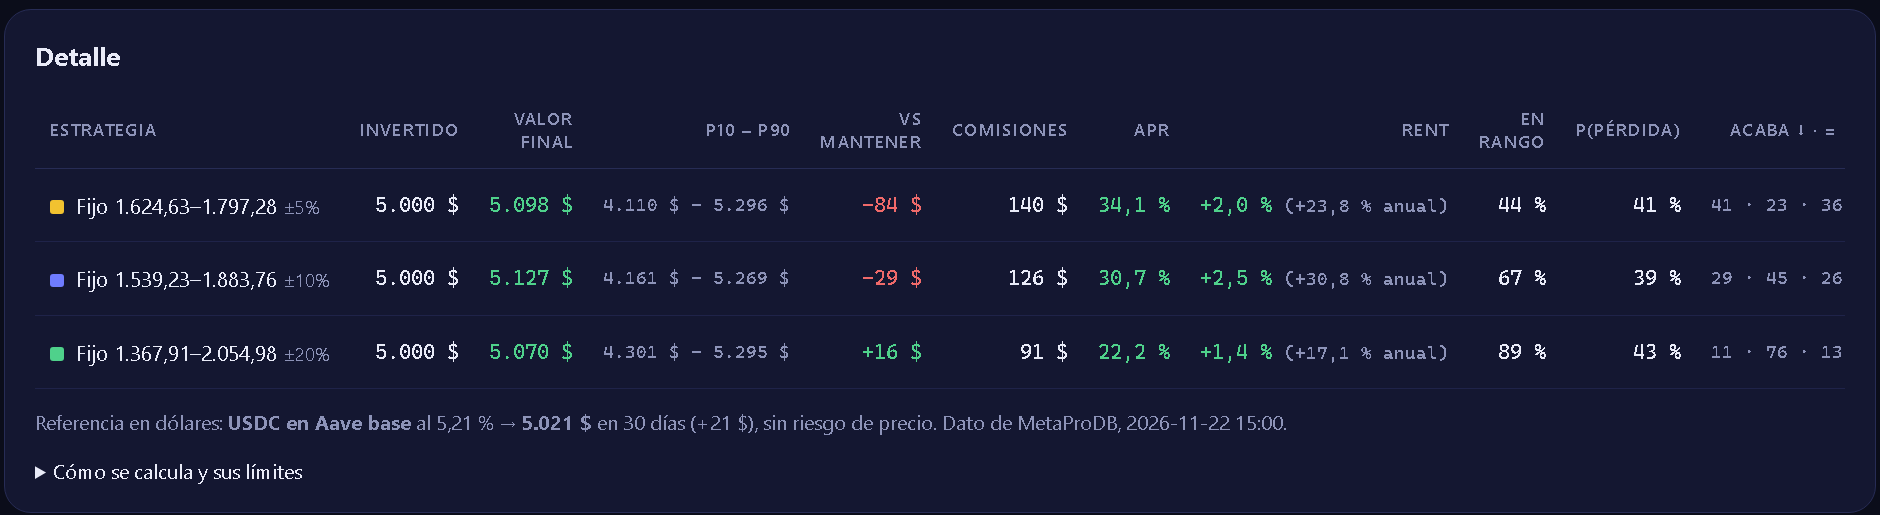
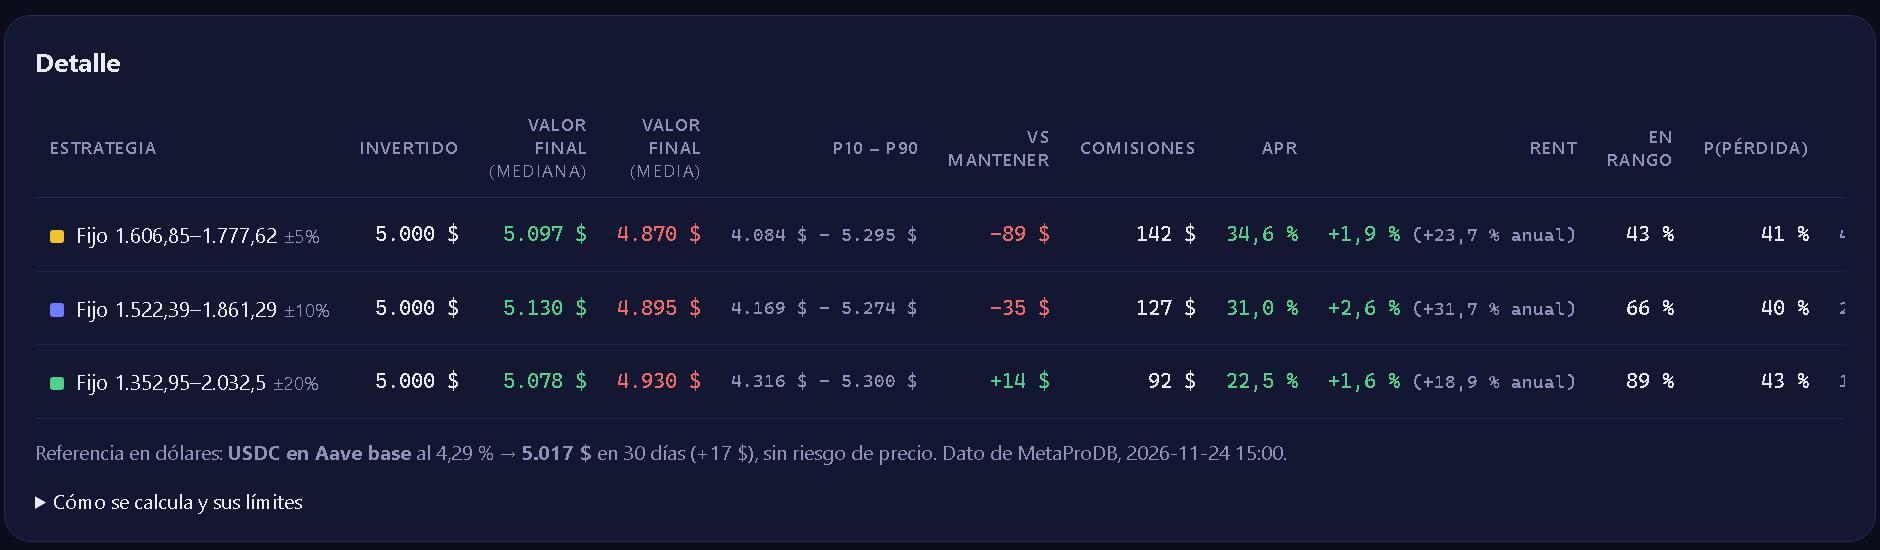
Simulador: valor final medio en la tabla y sección Recomendación en lenguaje llano
- Columna «Valor final (media)» junto a la mediana: la mediana puede salir en verde con la media en
  rojo (ganancias pequeñas y frecuentes, pérdidas grandes y raras).
- recomendacion: veredicto (compensa / no compensa) con la media frente a guardar los tokens y a la
  referencia sin riesgo; «qué haría», «qué no recomiendo» y «para intentar mejorarlo» (buscador de
  anchos, otros pools, nivel de comisiones, plazo, volatilidad reciente y semáforo).
- Guía con la sección 8 d y capturas; README al día.

diff --git a/etapas/simulador_web.html b/etapas/simulador_web.html
@@ -37,7 +37,7 @@ button.primary{background:var(--band);border-color:var(--band);color:#fff;font-w
 svg{display:block;width:100%;height:auto}
 .axis{fill:var(--muted);font:12px var(--mono)}
 .tw{overflow-x:auto}
-table{width:100%;border-collapse:collapse;font-family:var(--mono);font-size:14px;min-width:1050px}
+table{width:100%;border-collapse:collapse;font-family:var(--mono);font-size:14px;min-width:1150px}
 th{font:600 11px system-ui,sans-serif;letter-spacing:.08em;text-transform:uppercase;color:var(--muted);text-align:right;padding:10px 10px;border-bottom:1px solid var(--line)}
 th:first-child,td:first-child{text-align:left}
 td{text-align:right;padding:14px 10px;border-bottom:1px solid #1f2349;white-space:nowrap}
@@ -56,6 +56,13 @@ summary{cursor:pointer;color:var(--text)}
 .concl{margin:0;padding-left:20px;font-size:15px;line-height:1.55}.concl li{margin:4px 0}
 .sw{display:inline-block;width:10px;height:10px;border-radius:2px;margin:0 4px 0 10px;vertical-align:middle}
 .sw:first-child{margin-left:0}
+#opt:empty{display:none}
+.reco-txt{font-size:16px;line-height:1.55;margin:0 0 14px}
+.reco-grid{display:grid;grid-template-columns:repeat(auto-fit,minmax(300px,1fr));gap:16px}
+.reco-grid h3{font-size:14px;margin:0 0 6px}
+.reco-grid ul{margin:0;padding-left:18px;font-size:14px;line-height:1.5}.reco-grid li{margin:5px 0}
+.fiab.favorable{background:rgba(79,209,139,.15);color:var(--green)}
+.fiab.desfavorable{background:rgba(240,106,106,.15);color:var(--red)}
 </style>
 </head>
 <body>
@@ -132,7 +139,7 @@ summary{cursor:pointer;color:var(--text)}
   <section class="panel" id="outTable" hidden>
     <h2>Detalle</h2>
     <div class="tw"><table>
-      <thead><tr><th>Estrategia</th><th>Invertido</th><th>Valor final</th><th>P10 – P90</th><th>vs mantener</th><th>Comisiones</th><th>APR</th><th>Rent</th><th>En rango</th><th>P(pérdida)</th><th>Acaba ↓ · = · ↑</th></tr></thead>
+      <thead><tr><th>Estrategia</th><th>Invertido</th><th>Valor final<br><span style="font-weight:400">(mediana)</span></th><th>Valor final<br><span style="font-weight:400">(media)</span></th><th>P10 – P90</th><th>vs mantener</th><th>Comisiones</th><th>APR</th><th>Rent</th><th>En rango</th><th>P(pérdida)</th><th>Acaba ↓ · = · ↑</th></tr></thead>
       <tbody id="tbody"></tbody>
     </table></div>
     <div class="hint" id="ref" style="font-size:13px;margin-top:12px"></div>
@@ -163,6 +170,17 @@ summary{cursor:pointer;color:var(--text)}
     </div>
     <div class="hint">El mismo rango y plazo en todos los pools del par con TVL ≥ 0,1 M$ (ETH = WETH, BTC = WBTC = cbBTC, cualquier estable = USD), ordenados por lo que ganan frente a mantener en la media. Haz clic en una fila para abrir ese pool. Tarda unos segundos por pool.</div>
     <div class="tw" style="margin-top:8px"><table id="cmpTab" style="min-width:980px"></table></div>
+  </section>
+
+  <section class="panel reco" id="outReco" hidden>
+    <h2>Recomendación <span id="recoTag" class="fiab"></span></h2>
+    <p id="recoTxt" class="reco-txt"></p>
+    <div class="reco-grid">
+      <div><h3>✅ Qué haría</h3><ul id="recoHacer"></ul></div>
+      <div><h3>⛔ Qué no recomiendo</h3><ul id="recoNo"></ul></div>
+      <div><h3>🔧 Para intentar mejorarlo</h3><ul id="recoMejorar"></ul></div>
+    </div>
+    <div class="hint" id="recoNota"></div>
   </section>
 </main>
 <script>
@@ -233,8 +251,8 @@ function render(d){
     `volatilidad ×<b>${d.escala_vol.toLocaleString("es-ES",{maximumFractionDigits:2})}</b> (últimos 90 d ×${d.vol_reciente.toLocaleString("es-ES",{maximumFractionDigits:2})}, plazo ×${(d.escala_vol/Math.min(2,Math.max(0.5,d.vol_reciente))).toLocaleString("es-ES",{maximumFractionDigits:2})})`,
     `gas <b>${d.gas} $</b>`, `cambio inicial <b>${pct(d.comision_cambio,2,false)}</b>`,
     d.aviso?`<span class="neg">${d.aviso}</span>`:""].filter(Boolean).map(t=>`<span>${t}</span>`).join("");
-  ["outSum","outFan","outBars","outDes","outTable","outOpt","outCmp"].forEach(id=>$(id).hidden=false);
-  summary(d); fan(d); bars(d); desglose(d); table(d);
+  ["outSum","outFan","outBars","outDes","outTable","outOpt","outCmp","outReco"].forEach(id=>$(id).hidden=false);
+  summary(d); fan(d); bars(d); desglose(d); table(d); reco(d.recomendacion||{});
   const sel=$("cmpRango"), prev=sel.value;
   sel.innerHTML=["P10-P90",...ranges.filter(Boolean)].filter((v,i,a)=>a.indexOf(v)===i).map(r=>`<option>${esc(r)}</option>`).join("");
   if(prev&&[...sel.options].some(o=>o.value===prev)) sel.value=prev;
@@ -336,6 +354,13 @@ function cmpDraw(c){
   $("cmpTab").querySelectorAll("tr[data-pool]").forEach(tr=>tr.addEventListener("click",()=>{$("pool").value=tr.dataset.pool;run();window.scrollTo({top:0,behavior:"smooth"});}));
 }
 
+function reco(r){
+  const t=$("recoTag"); t.className="fiab "+(r.veredicto||""); t.textContent=r.veredicto==="favorable"?"compensa":"no compensa";
+  $("recoTxt").textContent=r.texto||"";
+  const li=a=>(a||[]).map(x=>`<li>${esc(x)}</li>`).join("");
+  $("recoHacer").innerHTML=li(r.hacer); $("recoNo").innerHTML=li(r.no_hacer); $("recoMejorar").innerHTML=li(r.mejorar);
+  $("recoNota").textContent=r.nota||"";
+}
 function esc(t){return String(t).replace(/[&<>]/g,c=>({"&":"&amp;","<":"&lt;",">":"&gt;"}[c]));}
 function summary(d){
   const f=d.fiabilidad||{nivel:"media",motivos:[],a_favor:[]};
@@ -416,6 +441,7 @@ function table(d){
       <td class="name"><i style="display:inline-block;width:9px;height:9px;border-radius:2px;background:${COLORS[i%COLORS.length]};margin-right:8px"></i>Fijo ${price(r.lo)}–${price(r.hi)} <span class="mut">${r.texto}</span>${r.fuera_hoy?' <span class="neg" title="El precio de hoy no está dentro: la posición se abre con un solo token y no cobra hasta que el precio entre">· fuera de rango hoy</span>':''}</td>
       <td>${usd(r.invertido)}</td>
       <td class="${cls(vf.p50-r.invertido)}">${usd(vf.p50)}</td>
+      <td class="${cls(r.valor_media-r.invertido)}" title="Media de todos los escenarios: cuenta los malos con su peso">${usd(r.valor_media)}</td>
       <td class="mut">${usd(vf.p10)} – ${usd(vf.p90)}</td>
       <td class="${cls(vm)}">${usd(vm,true)}</td>
       <td>${usd(r.comisiones.p50)}</td>

diff --git a/etapas/simulador.py b/etapas/simulador.py
@@ -363,7 +363,8 @@ def resumen(s: Sim) -> dict:
         "estrategia": s.rango.nombre, "texto": s.rango.texto, "lo": s.rango.lo, "hi": s.rango.hi,
         "invertido": s.capital, "costes_apertura": s.costs, "dilucion": s.dilution,
         "fuera_hoy": not (s.rango.lo <= s.precio0 <= s.rango.hi),
-        "valor_final": q(s.final), "vs_mantener": q(s.final - s.hodl), "comisiones": q(s.fees),
+        "valor_final": q(s.final), "valor_media": float(np.mean(s.final)),
+        "vs_mantener": q(s.final - s.hodl), "comisiones": q(s.fees),
         "apr": med_fees / s.capital * ann, "rent": q(rent), "rent_anual": float(np.median(rent)) * ann,
         "en_rango": float(np.mean(s.in_range)), "en_rango_p": q(s.in_range),
         "prob_perdida": float(np.mean(s.final < s.capital)),
@@ -655,6 +656,95 @@ def conclusiones(res: dict) -> list[str]:
     return out
 
 
+def recomendacion(res: dict) -> dict:
+    """La lectura para quien no quiere interpretar la tabla: veredicto, qué hacer, qué no hacer y cómo
+    intentar mejorarlo. Se basa en la MEDIA de los escenarios (cuenta los malos con su peso), comparada con
+    guardar los tokens y con la referencia sin riesgo. Es análisis de escenarios, no una orden."""
+    rs, cap, dias = res["rangos"], res["capital"], res["dias"]
+    if not rs:
+        return {}
+    vm = lambda r: r["desglose"]["total"] - r["desglose"]["precio"]      # vs mantener, media
+    gana = lambda r: r["valor_media"] - cap                              # resultado medio en $
+    ref = res.get("sin_riesgo")
+    sr = ref["valor_final"] - cap if ref else 0.0
+    best = max(rs, key=vm)
+    f = res.get("fiabilidad") or {"nivel": "alta", "motivos": []}
+    asset = (res.get("par") or "/").split("/")[0]
+    hacer, no_hacer, mejorar = [], [], []
+    buenos = [r for r in rs if vm(r) > 0 and gana(r) > sr]
+
+    if buenos:
+        b = max(buenos, key=gana)
+        perdida_mala = cap - b["valor_final"]["p10"]
+        veredicto = ("favorable",
+                     f"Con estos números, abrir el rango {b['texto']} tiene sentido: de media gana {_usd(vm(b))} frente a "
+                     f"guardar los tokens y {_usd(gana(b))} en total en {dias} días"
+                     + (f", más que los {_usd(sr)} sin riesgo de {ref['nombre']}." if ref else "."))
+        hacer.append(f"Abre {b['texto']} ({_fmt_price(b['lo'])}–{_fmt_price(b['hi'])}) solo con dinero que puedas "
+                     f"permitirte ver caer: en un escenario malo (1 de cada 10) pierdes unos {_usd(perdida_mala, False)}.")
+        hacer.append("Vigílala: apúntala en posiciones.txt para que la rutina te avise si se acerca a un borde, y "
+                     "revísala a mitad de plazo con «Mis posiciones».")
+    elif any(r["valor_final"]["p50"] > cap for r in rs):
+        t = max(rs, key=lambda r: r["valor_final"]["p50"])
+        veredicto = ("desfavorable",
+                     f"Con estos números no abriría ninguno de estos rangos. Lo normal es ganar un poco (con {t['texto']}, "
+                     f"{_usd(t['valor_final']['p50'] - cap)} en el escenario de en medio), pero cuando el precio se mueve "
+                     f"mucho se pierde bastante más (unos {_usd(cap - t['valor_final']['p10'], False)} en un escenario malo, "
+                     "1 de cada 10) "
+                     f"y, de media, acabas perdiendo {_usd(-gana(t), False)}.")
+    else:
+        veredicto = ("desfavorable", "Con estos números no abriría ninguno de estos rangos: pierden tanto en el caso típico "
+                                     "como de media.")
+
+    if not buenos:
+        hacer.append(f"Si lo que quieres es tener {asset}, guárdalo sin más: el pool no te paga lo suficiente por el "
+                     f"riesgo (frente a guardar los tokens, el mejor rango da {_usd(vm(best))} de media).")
+        if ref:
+            hacer.append(f"Si lo que buscas es renta en dólares sin riesgo de precio: {ref['nombre']} da {_usd(sr)} en "
+                         f"{dias} días con {_usd(cap, False)}.")
+        if vm(best) > -0.01 * cap:
+            hacer.append(f"Si aun así quieres probar, usa el rango menos malo, {best['texto']} ({_usd(gana(best))} de media), "
+                         "con poco dinero y vigilándolo.")
+
+    for r in rs:
+        if r["en_rango"] < 0.6:
+            no_hacer.append(f"No uses {r['texto']}: está fuera de rango el {_pct(1 - r['en_rango'])} del tiempo (sin cobrar) "
+                            f"y es de los que más pierden cuando el precio se escapa ({_usd(gana(r))} de media).")
+    peor = min(rs, key=gana)
+    if peor["comisiones"]["p50"] == max(r["comisiones"]["p50"] for r in rs) and len(rs) > 1 and gana(peor) < 0:
+        no_hacer.append(f"No elijas por el APR: {peor['texto']} tiene el APR más alto ({_pct(peor['apr'])}) y, aun así, "
+                        f"el peor resultado medio ({_usd(gana(peor))}).")
+    no_hacer.append("No te fíes solo de la columna «Valor final»: es el caso típico. Mira también «Valor final (media)» "
+                    "y el P10: ahí se ve lo que pasa cuando sale mal.")
+    if f["nivel"] != "alta":
+        no_hacer.append(f"No tomes las cifras al pie de la letra: fiabilidad {f['nivel']} ({'; '.join(f['motivos'])}).")
+    if any(r.get("fuera_hoy") for r in rs):
+        no_hacer.append("No abras un rango que ya está fuera hoy pensando que cobrará: no cobra nada hasta que el precio entre.")
+
+    mb = res.get("mejor_ancho")
+    if mb:
+        if mb["vs_media"] > max(vm(r) for r in rs) and not (mb["es_el_mas_ancho"] and mb["vs_media"] <= 0):
+            mejorar.append(f"Prueba {mb['texto']}: el buscador de anchos le da {_usd(mb['vs_media'])} de media frente a "
+                           "guardar los tokens, mejor que tus rangos.")
+        elif mb["es_el_mas_ancho"] and mb["vs_media"] <= 0:
+            mejorar.append(f"Ni el rango más ancho que prueba el buscador ({mb['texto']}) gana de media "
+                           f"({_usd(mb['vs_media'])}): en este pool, ahora, ningún rango compensa.")
+    mejorar.append("Compara el mismo par en otros pools (botón «Comparar», justo encima): con el mismo precio, el que cobra "
+                   "más comisiones por la misma liquidez puede darle la vuelta.")
+    nivel = res.get("nivel_reciente") or 1.0
+    if nivel < 0.8:
+        mejorar.append(f"Las comisiones de este pool están ahora al {_pct(nivel)} de su media de dos años: vuelve a "
+                       "mirarlo cuando suban (el resultado mejora casi en proporción).")
+    if dias >= 60:
+        mejorar.append("Prueba un plazo de 30 días: el simulador es más fiable y te deja revisar y decidir antes.")
+    if (res.get("escala_vol") or 1.0) < 0.95:
+        mejorar.append("Los últimos meses han sido tranquilos y los escenarios lo reflejan: si vuelve la volatilidad, el "
+                       "pool saldrá peor que esto. Vuelve a simular antes de abrir.")
+    return {"veredicto": veredicto[0], "texto": veredicto[1], "hacer": hacer, "no_hacer": no_hacer, "mejorar": mejorar,
+            "nota": "Análisis de escenarios con el histórico real del pool, no una recomendación de inversión "
+                    "personalizada: el simulador no conoce tu situación ni sabe hacia dónde irá el precio."}
+
+
 def run(key: str, chain: str | None, rangos: list[str], capital: float = 5000, dias: int = 30,
         historia: int = HISTORIA_DIAS, escenarios: int = 1000, bloque: int = 168, tendencia: str = "neutral",
         gas: float | None = None, h: History | None = None, ajuste: float = AJUSTE_COMISIONES,
@@ -679,6 +769,9 @@ def run(key: str, chain: str | None, rangos: list[str], capital: float = 5000, d
             "aviso": h.pool.get("aviso"), "rangos": out, "abanico": abanico(h, paths),
             "sin_riesgo": ref, "fiabilidad": fiab}
     res["conclusiones"] = conclusiones(res)
+    curva = barrido(h, paths, capital, gas)
+    res["mejor_ancho"] = mejor_rango(curva, "media") | {"es_el_mas_ancho": mejor_rango(curva, "media") is curva[-1]}
+    res["recomendacion"] = recomendacion(res)
     return res
 
 

diff --git a/tests/test_simulador.py b/tests/test_simulador.py
@@ -264,6 +264,54 @@ def test_escala_de_volatilidad_reciente_y_por_plazo():
     assert abs(ra.mean()) < 0.01                                       # sigue sin tendencia
 
 
+def _rg_reco(texto, vf50, vmedia, vm, en=0.9, comis=100, apr=0.2, p10=4400):
+    return {"texto": texto, "lo": 1.0, "hi": 2.0, "valor_final": {"p50": vf50, "p10": p10}, "valor_media": vmedia,
+            "desglose": {"total": vmedia - 5000, "precio": vmedia - 5000 - vm}, "en_rango": en,
+            "comisiones": {"p50": comis}, "apr": apr, "fuera_hoy": False}
+
+
+def test_recomendacion_desfavorable_cuando_la_media_pierde():
+    res = {"capital": 5000, "dias": 30, "par": "BTC/USDC", "nivel_reciente": 0.7, "escala_vol": 1.0,
+           "sin_riesgo": {"nombre": "USDC en Aave base", "valor_final": 5017},
+           "fiabilidad": {"nivel": "alta", "motivos": []},
+           "mejor_ancho": {"texto": "±70%", "vs_media": -13, "es_el_mas_ancho": True},
+           "rangos": [_rg_reco("±5%", 5082, 4910, -100, en=0.51, comis=101, apr=0.25),
+                      _rg_reco("±20%", 5045, 4964, -42, comis=57, apr=0.14)]}
+    r = S.recomendacion(res)
+    assert r["veredicto"] == "desfavorable" and "no abriría" in r["texto"] and "64 $" not in r["texto"]
+    assert "90 $" in r["texto"]                                           # 5.000 − 4.910 de media
+    assert any("guárdalo" in t and "BTC" in t for t in r["hacer"])
+    assert any("USDC en Aave base" in t for t in r["hacer"])
+    assert any(t.startswith("Si aun así") and "±20%" in t for t in r["hacer"])
+    assert any(t.startswith("No uses ±5%") for t in r["no_hacer"])
+    assert any("No elijas por el APR" in t for t in r["no_hacer"])
+    assert any("Ni el rango más ancho" in t for t in r["mejorar"]) and any("70 %" in t for t in r["mejorar"])
+    assert r["nota"]
+
+
+def test_recomendacion_favorable_cuando_gana_de_media_y_al_sin_riesgo():
+    res = {"capital": 5000, "dias": 30, "par": "ETH/USDC", "nivel_reciente": 1.1, "escala_vol": 1.0,
+           "sin_riesgo": {"nombre": "USDC en Aave base", "valor_final": 5020},
+           "fiabilidad": {"nivel": "media", "motivos": ["TVL bajo"]},
+           "mejor_ancho": {"texto": "±30%", "vs_media": 70, "es_el_mas_ancho": False},
+           "rangos": [_rg_reco("±10%", 5120, 5060, 40, p10=4300), _rg_reco("±20%", 5080, 5030, 20)]}
+    r = S.recomendacion(res)
+    assert r["veredicto"] == "favorable" and "±10%" in r["texto"]
+    assert any("700 $" in t for t in r["hacer"])                          # pérdida del escenario malo
+    assert any("Fiabilidad" in t or "fiabilidad media" in t for t in r["no_hacer"])
+    assert any("Prueba ±30%" in t for t in r["mejorar"])
+
+
+def test_run_devuelve_media_y_recomendacion(monkeypatch):
+    h = S.features(POOL, _walk(n=24 * 200))
+    monkeypatch.setattr(S, "referencia_sin_riesgo", lambda chain: None)
+    monkeypatch.setattr(S, "calibracion_pool", lambda *a, **k: None)
+    d = S.run("x", "base", ["±5%", "±20%"], dias=14, escenarios=200, h=h)
+    for r in d["rangos"]:
+        assert r["valor_media"] == pytest.approx(5000 + r["desglose"]["total"])
+    assert d["recomendacion"]["veredicto"] in ("favorable", "desfavorable") and d["mejor_ancho"]["texto"]
+
+
 def test_side_en_precio_mostrado_para_pool_invertido():
     df = _walk(pool=POOL_INV, n=200, vol=0.0)
     h = S.features(POOL_INV, df)

diff --git a/Guia Simulador.md b/Guia Simulador.md
@@ -23,6 +23,7 @@ cómo leer los resultados para elegir un rango.
 8. [La tabla de detalle, columna a columna](#8-la-tabla-de-detalle-columna-a-columna)
    - [8 b. Buscar el mejor ancho](#8-b-buscar-el-mejor-ancho)
    - [8 c. Comparar con otros pools del mismo par](#8-c-comparar-con-otros-pools-del-mismo-par)
+   - [8 d. Recomendación](#8-d-recomendación)
 9. [Cómo funciona por dentro](#9-cómo-funciona-por-dentro)
 10. [Cómo elegir un rango (receta)](#10-cómo-elegir-un-rango-receta)
 11. [Fiabilidad y límites](#11-fiabilidad-y-límites)
@@ -65,6 +66,7 @@ flowchart TB
     G --> E["⑦ Tabla de detalle<br/>todas las cifras + referencia sin riesgo"]
     E --> O["⑧ Buscar el mejor ancho<br/>(botón Buscar)"]
     O --> P["⑨ Comparar con otros pools del mismo par<br/>(botón Comparar)"]
+    P --> Q["⑩ Recomendación<br/>qué haría, qué no y cómo mejorarlo, en lenguaje llano"]
 ```
 
 Los dos últimos y «Mis posiciones» no se calculan solos: pulsa su botón. Para abrir la página con ellos ya
@@ -310,7 +312,8 @@ escenario de en medio.
 |---|---|---|---|
 | **Estrategia** | El rango | «Fijo» + precios reales tras ajustar a ticks + lo que escribiste. Si aparece **«· fuera de rango hoy»** en rojo, el precio actual no está dentro: abrirías con un solo token y no cobrarías nada hasta que el precio entre. | Comprueba que los precios son los que querías. |
 | **Invertido** | Tu capital | El campo Capital. | — |
-| **Valor final** | Cuánto tienes al final del plazo | Mediana de (valor de la posición + comisiones cobradas), con los precios del último día del escenario. Verde si supera lo invertido, rojo si no. | Lo «típico» que te quedaría. |
+| **Valor final (mediana)** | Cuánto tienes al final del plazo en el escenario de en medio | Mediana de (valor de la posición + comisiones cobradas), con los precios del último día del escenario. Verde si supera lo invertido, rojo si no. | Lo «típico» que te quedaría. Puede salir verde aunque pierdas de media: las ganancias son pequeñas y frecuentes; las pérdidas, grandes y menos frecuentes. |
+| **Valor final (media)** | Lo mismo, en la media de todos los escenarios | Media de los 1.000 valores finales: cuenta los escenarios malos con su peso. Es lo invertido + el «resultado» del gráfico «De dónde sale el resultado». | Lo que te quedaría «a la larga», si abrieras esta posición muchas veces. **Si está en rojo, la posición pierde dinero de media**, aunque la mediana salga verde. |
 | **P10 – P90** | La horquilla de resultados | Valor final en el escenario malo (solo 1 de cada 10 sale peor) y en el bueno (solo 1 de cada 10 sale mejor). | Cuanto más ancha, más incertidumbre. Mira sobre todo el P10: ¿podrías asumir esa pérdida? |
 | **vs mantener** | Si el pool compensa frente a no hacer nada | Mediana de (valor final − valor de **los mismos tokens que depositas**, guardados en la cartera sin abrir posición). Incluye el gas y el cambio inicial como coste. | **Es la columna clave.** Positivo: el pool te deja mejor que tener los tokens quietos. Negativo: las comisiones no compensan la pérdida por el movimiento del precio (la llamada pérdida impermanente). |
 | **Comisiones** | Lo que cobras | Mediana de las comisiones cobradas en el plazo, en dólares, ya con nivel reciente, ajuste y la dilución por tu propia liquidez. | Lo que gana el pool en sí. Los rangos estrechos cobran más mientras están dentro. |
@@ -414,6 +417,38 @@ liquidez, que dependen de su volumen, su comisión y cuánta liquidez compite. E
 siempre es el mejor. En el ejemplo, con P10–P90 a 30 días, WETH/USDT 0,05 % de Ethereum queda primero
 (140 $ de comisiones, −21 $ frente a mantener en la media) y WETH/USDC 0,05 % de Ethereum, con 70 M$ de
 TVL, cobra 97 $ (−68 $).
+
+---
+
+## 8 d. Recomendación
+
+![Recomendación](docs/img/simulador-7-recomendacion.png)
+
+Es la última sección de la pantalla y está escrita **para quien no quiere interpretar la tabla**. Traduce las
+cifras a una decisión, con un sello: **compensa** (verde) o **no compensa** (rojo).
+
+**Cómo decide:** mira la **media** de los escenarios, no la mediana, porque la media cuenta los escenarios
+malos con su peso. Un rango «compensa» solo si cumple las dos cosas a la vez:
+
+1. de media gana a **guardar los tokens** (no estar en el pool);
+2. de media gana más que la **referencia sin riesgo** (USDC en Aave en la misma red).
+
+| Bloque | Qué dice |
+|---|---|
+| **Frase principal** | El veredicto con sus números. Si compensa: qué rango abrir y cuánto ganaría de media. Si no: lo que pasa en el caso típico, lo que se pierde en un escenario malo y lo que se pierde de media. |
+| **✅ Qué haría** | Si compensa: abrir ese rango con dinero que puedas ver caer (dice cuánto se pierde en un escenario malo) y vigilarlo con `posiciones.txt` y «Mis posiciones». Si no compensa: las alternativas, que son guardar el token si lo que quieres es tenerlo, la renta sin riesgo en dólares si lo que buscas es renta, y, si aun así quieres probar, el rango menos malo con poco dinero. |
+| **⛔ Qué no recomiendo** | Los rangos que pasan mucho tiempo fuera, elegir por el APR más alto, fiarse solo del «Valor final (mediana)», abrir un rango que ya está fuera de rango hoy, y tomar las cifras al pie de la letra si la fiabilidad no es alta. |
+| **🔧 Para intentar mejorarlo** | Probar el ancho que propone el buscador (o avisar de que ni el más ancho compensa), comparar el mismo par en otros pools, esperar a que suban las comisiones si están por debajo de su media, acortar el plazo si es largo, y volver a simular antes de abrir si los últimos meses han sido tranquilos. |
+
+**Ejemplo** (WETH/USDC 0,05 % de Base, 5.000 $, 30 días, 24-nov-2026): «no compensa». Lo normal es ganar un
+poco (+130 $ con ±10 % en el escenario de en medio), pero en un escenario malo se pierden unos 831 $ y de
+media se acaba perdiendo 105 $. Recomienda guardar ETH si lo que quieres es tenerlo, o USDC en Aave (+17 $ sin
+riesgo) si lo que buscas es renta. Desaconseja ±5 %, que está fuera de rango el 57 % del tiempo y tiene el APR
+más alto con el peor resultado. Como mejora, propone comparar otros pools y esperar, porque las comisiones
+están al 56 % de su media.
+
+> Es un análisis de escenarios con el histórico real del pool, no una recomendación de inversión
+> personalizada: el simulador no conoce tu situación ni sabe hacia dónde irá el precio.
 
 ---
 

diff --git a/README.md b/README.md
@@ -463,6 +463,14 @@ resultado medio en precio de los tokens + pérdida impermanente + comisiones + c
 mediana pero pierde 192 $ de media, porque la pérdida impermanente de los escenarios malos (−336 $ de
 media) no tiene techo.
 
+**Valor final medio y Recomendación.** La tabla muestra el valor final en la mediana y en la **media**
+(`valor_media`), porque una posición de liquidez gana poco y a menudo y pierde mucho de vez en cuando: la
+mediana puede salir en verde con la media en rojo. `recomendacion` cierra la página con un veredicto en
+lenguaje llano (compensa / no compensa), «qué haría», «qué no recomiendo» y «para intentar mejorarlo».
+Un rango compensa si, **de media**, gana a guardar los tokens y a la referencia sin riesgo. Usa el
+buscador de anchos (`mejor_ancho`, calculado en cada simulación), el nivel de comisiones, el plazo, la
+volatilidad reciente y el semáforo.
+
 **Mis posiciones abiertas (`etapas/posiciones_lp.py`, pantalla y consola).** Lee las posiciones abiertas
 del MCP público de Revert (`https://mcp.revert.finance/mcp`, JSON-RPC por HTTP, solo `get_positions`)
 con las carteras de `~/.cripto-renta/config.json` (nunca en el repositorio), busca cada pool en
